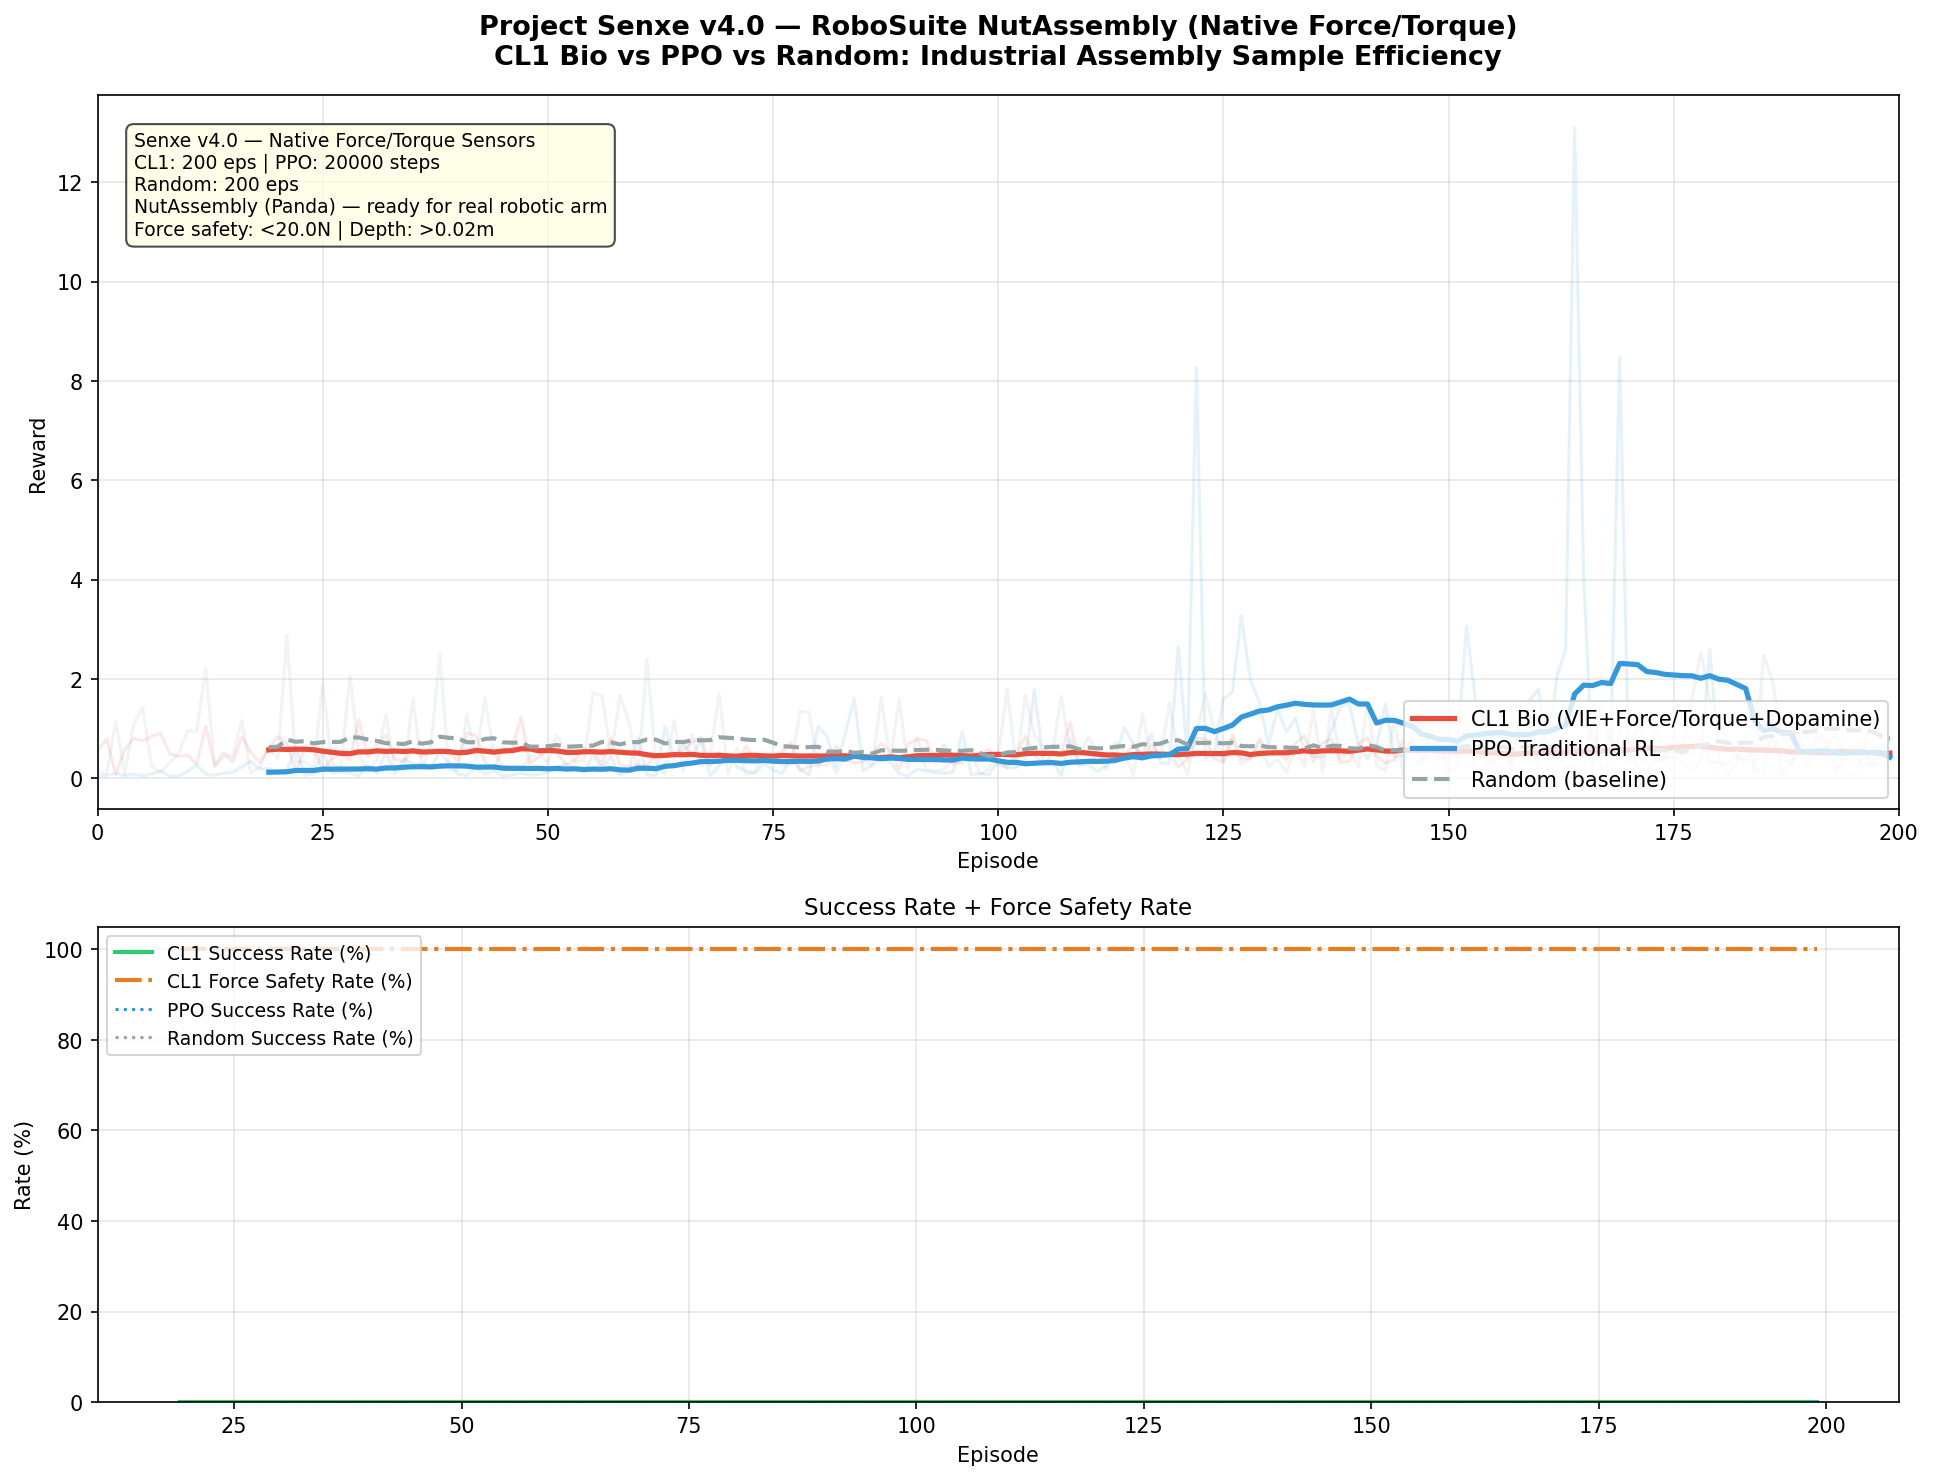
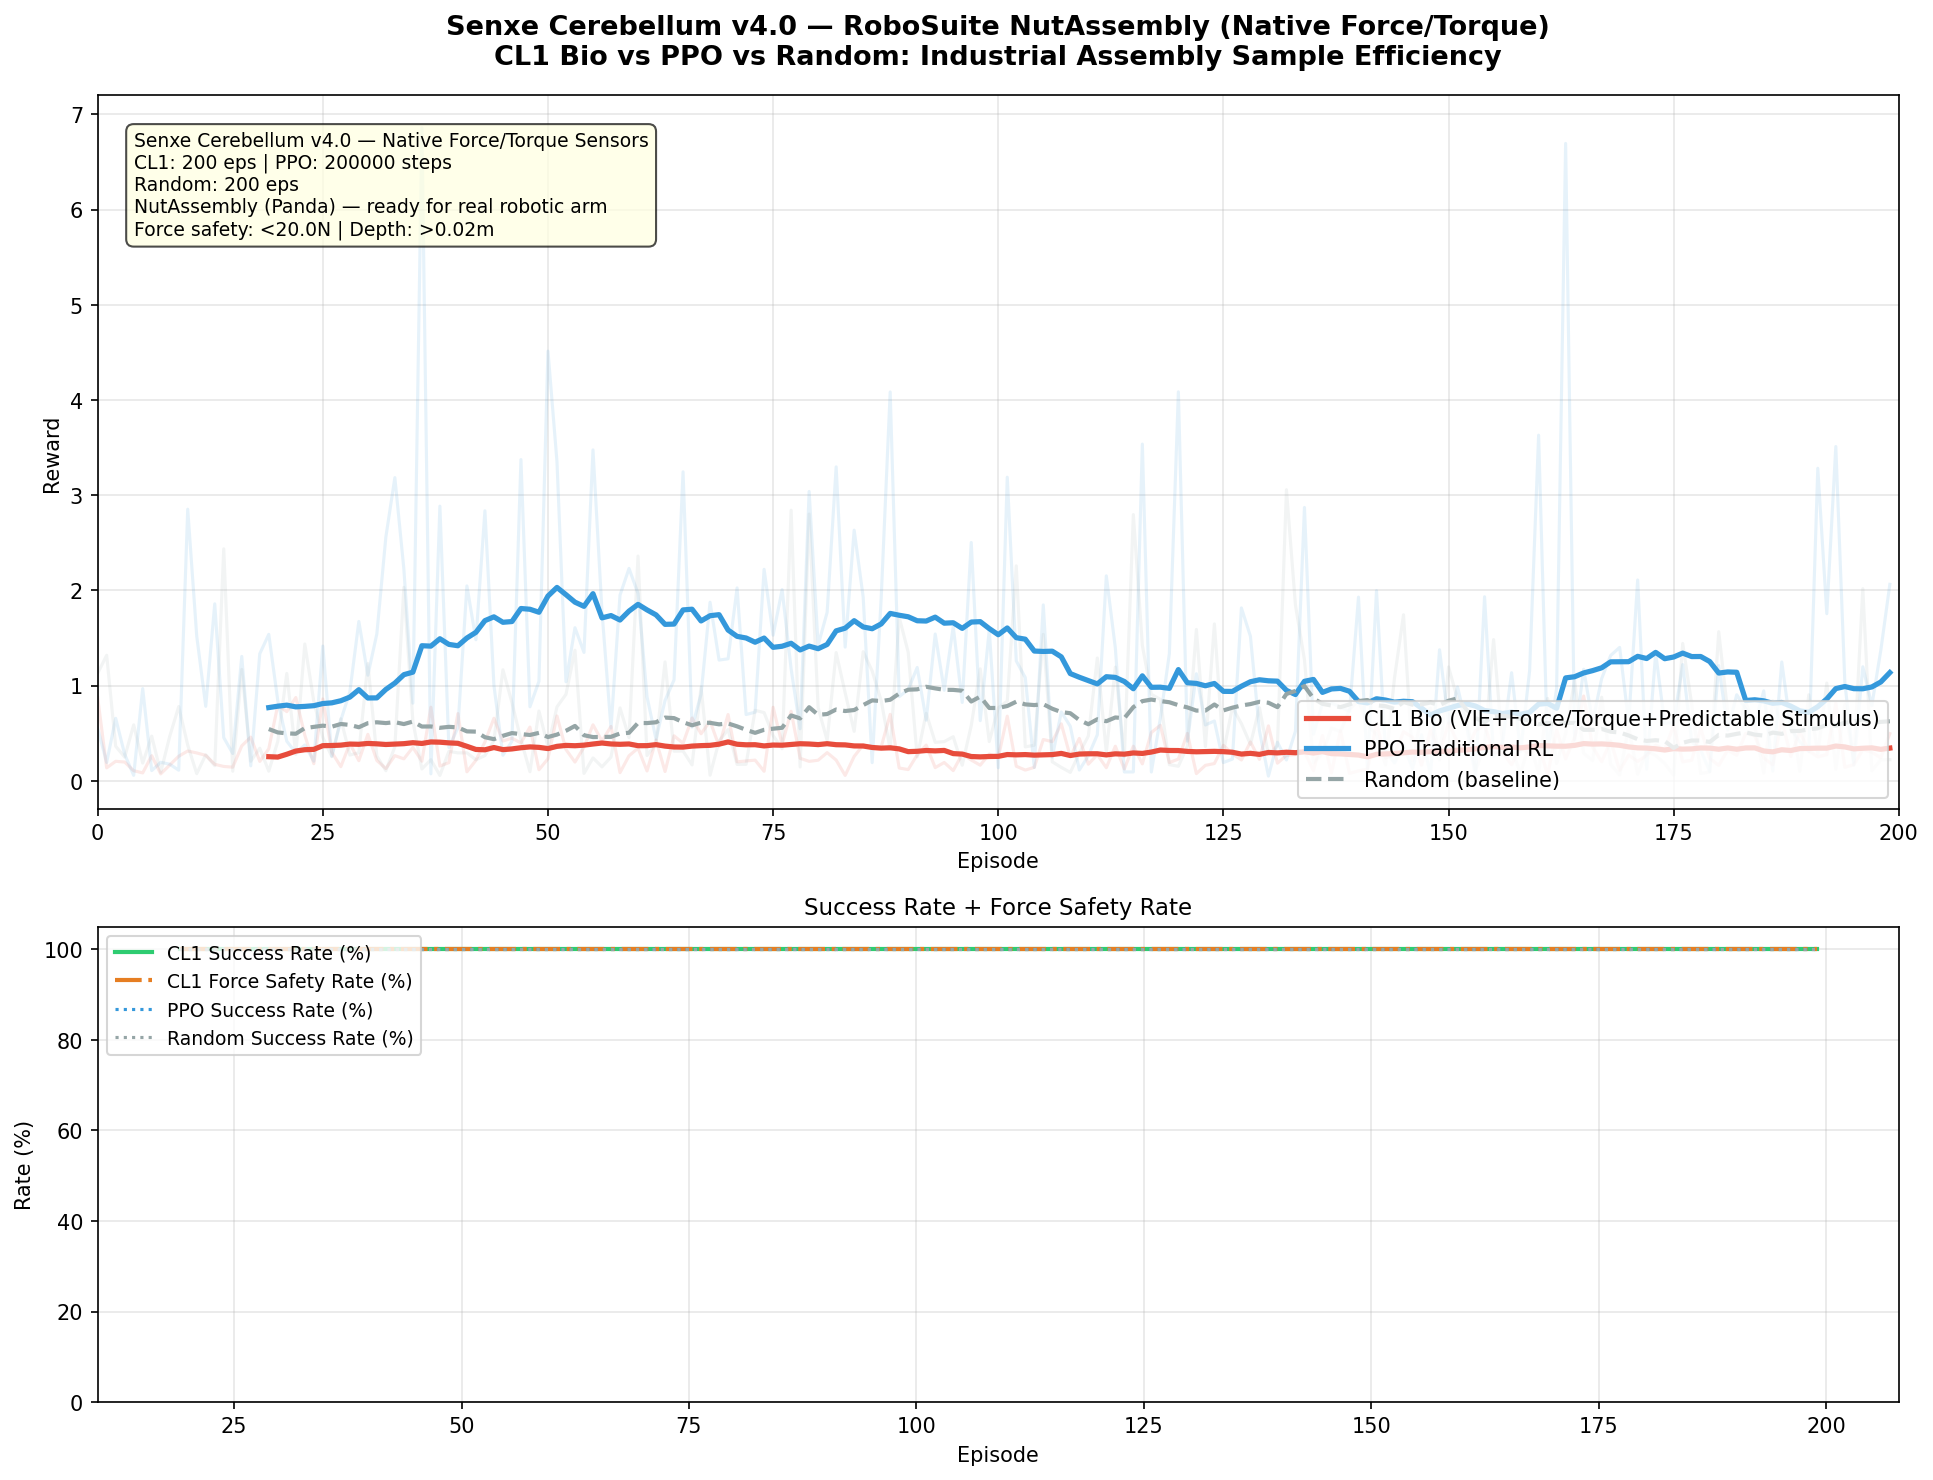
fix: Restore critical action_bias heuristic that was removed during double scaling bug fix, which caused agent to not move

diff --git a/senxe_demo_robosuite.py b/senxe_demo_robosuite.py
@@ -106,6 +106,8 @@ class CL1Agent:
         self.curiosity = NeuralCuriosity()
         self.episode_rewards = []
         self.best_reward = -np.inf
+        self.action_bias = np.zeros(self.action_dim)
+        self.lr = 0.05
         self.top_channels = (channel_ranking[:PREDICTABLE_STIM_TOP_K].tolist()
                              if channel_ranking is not None else list(range(PREDICTABLE_STIM_TOP_K)))
 
@@ -165,6 +167,7 @@ class CL1Agent:
         obs, _ = self.env.reset()
         obs_info = extract_obs(obs)
         self.pdi.reset(); self.decoder.reset(); self.curiosity.reset()
+        self.action_bias = np.zeros(self.action_dim)
         total_reward = 0.0; frames_list = []
         ep_successes = []; ep_force_safe = []
         step_rewards = deque(maxlen=50); cur_fr = np.zeros(64)
@@ -183,8 +186,8 @@ class CL1Agent:
             # PDI + 好奇心联合驱动
             fep_boost = pdi_val * 0.3 + novelty * 0.1
             raw = self.decoder.decode(spikes, pdi_boost=fep_boost)
-            # decoder 内部已完成缩放和裁剪，不再重复
-            action = raw
+            # Add learned action bias (Hebbian momentum)
+            action = np.clip(raw + self.action_bias, -1.0, 1.0)
             obs, reward, terminated, truncated, info = self.env.step(action)
             obs_info = extract_obs(obs)
             total_reward += reward
@@ -212,6 +215,11 @@ class CL1Agent:
                 penalty += reward * 0.3  # already negative
             self._unpredictable_stim_inject(penalty)
             prev_dist = cur_dist
+
+            # Reward-modulated learning (Hebbian action momentum)
+            if reward > -0.5:
+                self.action_bias += self.lr * action * (reward + 1.0)
+                self.action_bias = np.clip(self.action_bias, -0.5, 0.5)
 
             if record:
                 try: